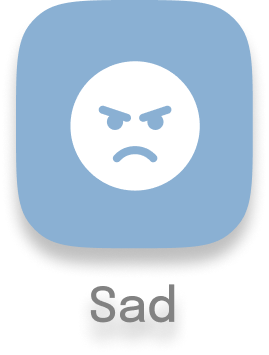
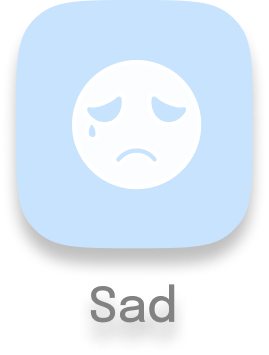
modified mood list

diff --git a/src/lib/ui/home_page.dart b/src/lib/ui/home_page.dart
@@ -20,7 +20,12 @@ import '../widgets/log_out_button.dart';
 import 'journal_page.dart';
 
 class HomePage extends StatefulWidget {
-  const HomePage({Key? key}) : super(key: key);
+  bool happyBool = false;
+  bool calmBool = false;
+  bool manicBool = false;
+  bool angryBool = false;
+  bool sadBool = false;
+  HomePage({Key? key}) : super(key: key);
 
   @override
   State<HomePage> createState() => _HomePageState();
@@ -82,11 +87,86 @@ class _HomePageState extends State<HomePage> {
           scrollDirection: Axis.horizontal,
           child: Row(
             children: [
-              MoodCard(urlImage: 'assets/happy_icon.png'),
-              MoodCard(urlImage: 'assets/calm_icon.png'),
-              MoodCard(urlImage: 'assets/manic_icon.png'),
-              MoodCard(urlImage: 'assets/angry_icon.png'),
-              MoodCard(urlImage: 'assets/sad_icon.png'),
+              GestureDetector(
+                  onTap: () {
+                    setState(() {
+                      widget.happyBool = !widget.happyBool;
+                    });
+                  },
+                  child: Container(
+                    margin: EdgeInsets.only(left: 25),
+                    height: 84,
+                    width: 59,
+                    decoration: BoxDecoration(
+                        image: DecorationImage(
+                            image: AssetImage(widget.happyBool
+                                ? 'assets/happy2.png'
+                                : 'assets/happy_icon.png'))),
+                  )),
+              GestureDetector(
+                  onTap: () {
+                    setState(() {
+                      widget.calmBool = !widget.calmBool;
+                    });
+                  },
+                  child: Container(
+                    margin: EdgeInsets.only(left: 25),
+                    height: 84,
+                    width: 59,
+                    decoration: BoxDecoration(
+                        image: DecorationImage(
+                            image: AssetImage(widget.calmBool
+                                ? 'assets/calm2.png'
+                                : 'assets/calm_icon.png'))),
+                  )),
+              GestureDetector(
+                  onTap: () {
+                    setState(() {
+                      widget.manicBool = !widget.manicBool;
+                    });
+                  },
+                  child: Container(
+                    margin: EdgeInsets.only(left: 25),
+                    height: 84,
+                    width: 59,
+                    decoration: BoxDecoration(
+                        image: DecorationImage(
+                            image: AssetImage(widget.manicBool
+                                ? 'assets/manic2.png'
+                                : 'assets/manic_icon.png'))),
+                  )),
+              GestureDetector(
+                  onTap: () {
+                    setState(() {
+                      widget.angryBool = !widget.angryBool;
+                    });
+                  },
+                  child: Container(
+                    margin: EdgeInsets.only(left: 25),
+                    height: 84,
+                    width: 59,
+                    decoration: BoxDecoration(
+                        image: DecorationImage(
+                            image: AssetImage(widget.angryBool
+                                ? 'assets/angry2.png'
+                                : 'assets/angry_icon.png'))),
+                  )),
+              GestureDetector(
+                  onTap: () {
+                    setState(() {
+                      widget.sadBool = !widget.sadBool;
+                    });
+                  },
+                  child: Container(
+                    margin: EdgeInsets.only(left: 25),
+                    height: 84,
+                    width: 59,
+                    decoration: BoxDecoration(
+                        image: DecorationImage(
+                            image: AssetImage(widget.sadBool
+                                ? 'assets/sad2.png'
+                                : 'assets/sad_icon.png'))),
+                  )),
             ],
           ),
         ),
